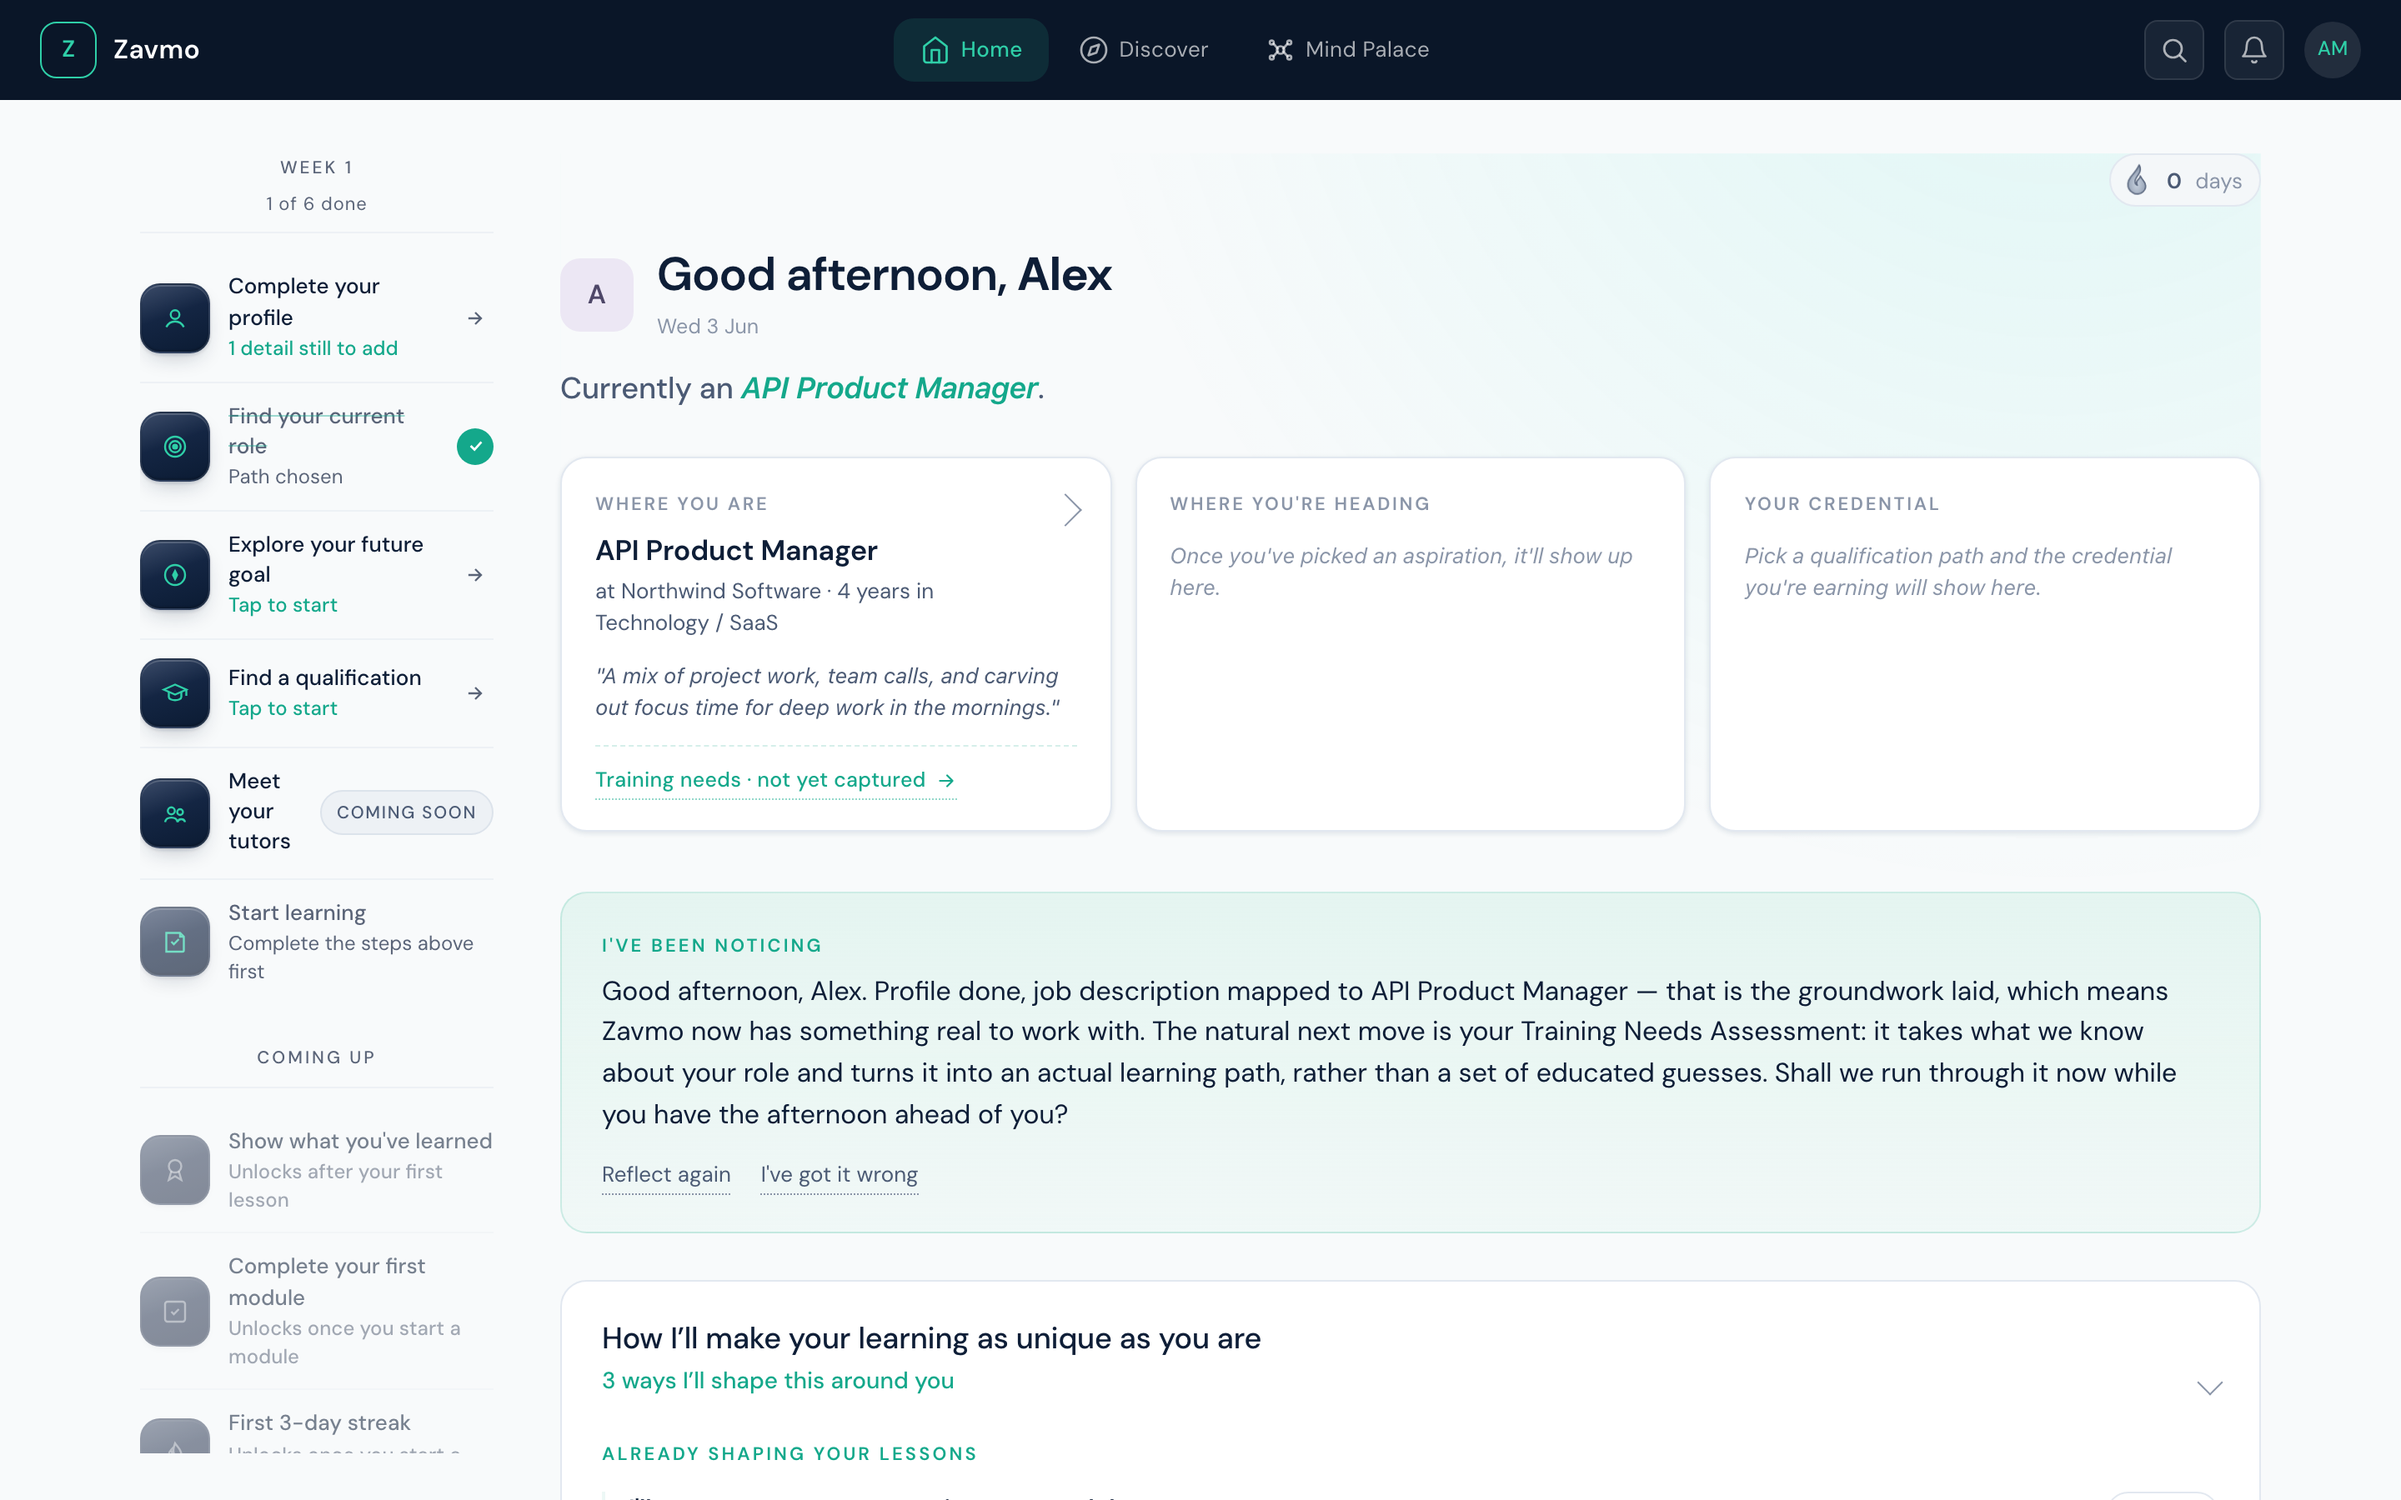
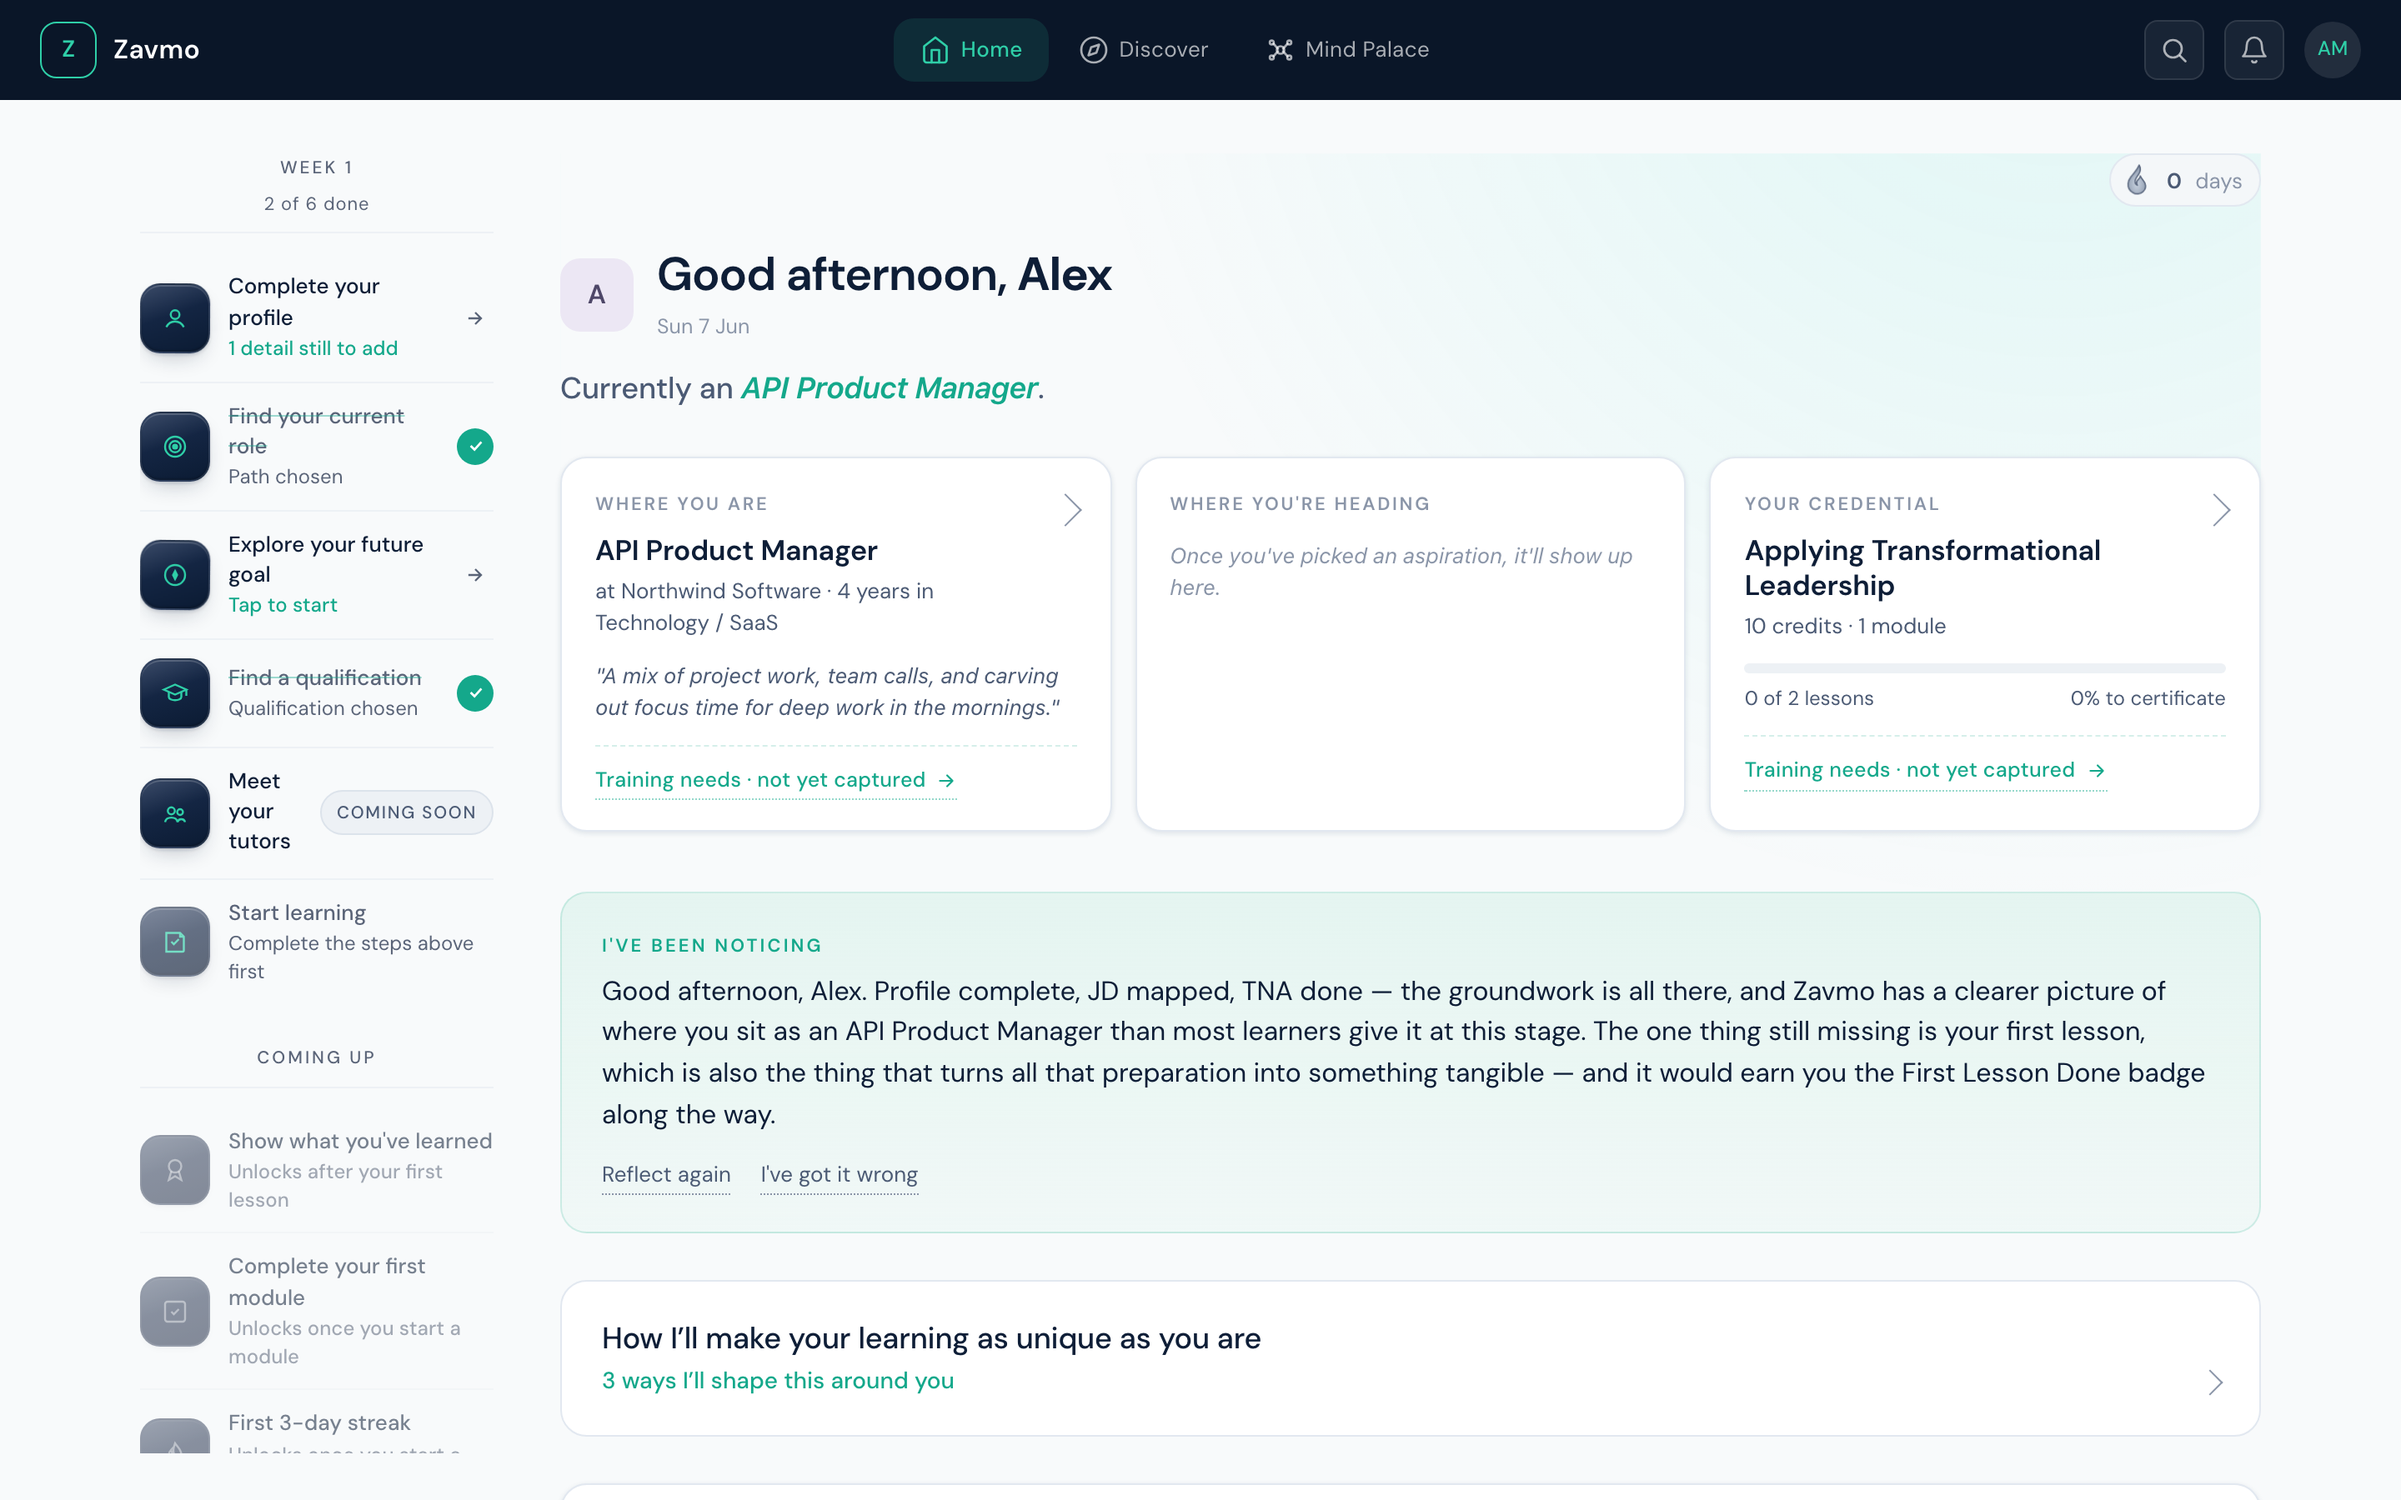
learner-journey: capture new interactive UI (home insights, live scenario card, national-standard confidence check)
- Refresh Home (12) with the new 'I've been noticing' personalised insight + Reflect/I've got it wrong
- New slide (36): 'Pick up where you left off' continuity + active path + xAPI statements + anonymised cohort signals
- Refresh Pick-your-path (15) with NQual Level 5 framing
- Refresh confidence check (16): live national-standard scenario + interactive A/B response
- New slide (37): in-lesson interactive scenario card ('48 hours to fix a critical API')

diff --git a/learner-journey/index.html b/learner-journey/index.html
@@ -149,14 +149,15 @@ const S=[
   { img:'11.png', eyebrow:'The payoff', title:'Your portrait', caption:'Zavmo reflects back everything it heard — “here’s who I see” — turning a profile into a recognisable person before suggesting a single thing.' },
 
   { section:true, num:'PART 3', title:'Your dashboard', sub:'Everything personal, in one place.' },
-  { img:'12.png', eyebrow:'In the app', title:'Home', caption:'A personalised dashboard: where you are, where you’re heading, and a clear next step — with Zavmo narrating what it has noticed.' },
+  { img:'12.png', eyebrow:'In the app · Home', title:'Zavmo notices, in your words', caption:'The home isn’t a list of courses — it’s Zavmo talking to you. “I’ve been noticing…” narrates exactly where you stand (“profile complete, JD mapped, TNA done — the groundwork is all there”) and the one thing that would move you forward. You can push back live — “Reflect again” or “I’ve got it wrong” — and it re-reads you. A dashboard that actually knows you.' },
+  { img:'36.png', eyebrow:'In the app · Continuity', title:'It picks up exactly where you left off', caption:'“Pick up where you left off” drops you back into the conversation mid-sentence — no re-finding your place. Your active path shows the nationally-recognised qualification, the units inside it, and an honest “on track, finish by late November.” Every interaction is logged as an xAPI statement (17 already) — and cohort signals only appear once enough peers join, fully anonymised. Personal, accountable, private.' },
 
   { section:true, num:'PART 4', title:'Discover & assess', sub:'Choose a real qualification, then prove where you actually stand.' },
   { img:'27.png', eyebrow:'Discover · Your job description', title:'See your whole role, in full', caption:'Here’s the learner’s own role — API Product Manager — as a complete job description: the real day-to-day, every responsibility broken down by experience band (Mid vs. Experienced), and exactly who they work with. The learner sees precisely what their role demands — and what the learning is building them toward. No guesswork.' },
   { img:'14.png', eyebrow:'Discover · Qualification', title:'Benchmarked to national standards', caption:'Every qualification is benchmarked against recognised national standards — so a learner knows what they’re studying is the real thing, the highest quality, with genuine credits, units and an awarding body behind it. Not invented content.' },
   { img:'35.png', eyebrow:'Discover · Inside the qualification', title:'See exactly what you’ll learn', caption:'Open any unit and the full standard is laid bare — the National Occupational Standard it maps to, its level, every Performance Criterion (what you must be able to do) and every Knowledge Requirement (what you must understand). The real substance of the learning, in the open — a huge benefit for a learner deciding what to commit to.' },
   { img:'15.png', eyebrow:'Discover · Your path', title:'Pick your path', caption:'Current role, a future goal, and a nationally-recognised qualification come together — the destination is set, and Zavmo can now design the learning backwards from it.' },
-  { img:'16.png', eyebrow:'Discover · Confidence check', title:'An assessment that thinks', caption:'Zavmo writes a bespoke, role-specific Level 5 scenario on the spot — a real dilemma with no clean answer — to find where you genuinely stand.' },
+  { img:'16.png', eyebrow:'Discover · Confidence check', title:'An assessment that thinks', caption:'Zavmo writes a bespoke, role-specific scenario on the spot, benchmarked to a national standard (Level 5) — a genuine dilemma with no clean answer (here, a breaking OAuth migration across 340 partners). You choose how you’d actually respond and rate your own confidence. From that, Zavmo finds where you truly stand — not where a multiple-choice quiz guesses you are.' },
   { img:'17.png', eyebrow:'Assessment', title:'Your skills assessment', caption:'The chosen qualification breaks into real, nationally-benchmarked units. Zavmo assesses each one — the Choose path → Assessment → Schedule → Learn → Certify journey.' },
   { img:'18.png', eyebrow:'Assessment · Pedagogy', title:'Built on Bloom’s taxonomy', caption:'The backbone of how Zavmo teaches. Every skill is mapped across the six cognitive levels — Remember, Understand, Apply, Analyse, Evaluate, Create — so progress is measured by depth of understanding, not boxes ticked. This is mastery learning: the one-to-one, two-sigma method, delivered at scale.' },
   { img:'20.png', eyebrow:'Assessment', title:'Your study plan', caption:'From the results, Zavmo builds a priority-ordered study plan — units, hours, and a week-by-week timeline with milestones.' },
@@ -164,6 +165,7 @@ const S=[
   { section:true, num:'PART 5', title:'Lesson delivery', sub:'Zavmo teaches in your world — pitched at your Bloom’s level, paced to how you learn, and you can talk to it.' },
   { img:'21.png', eyebrow:'Deliver · The Coach', title:'Teaching, in context', caption:'“The Coach” teaches conversationally, using a worked example drawn from Alex’s own world — a burnt-out engineering team shipping API fixes — then asks a real question.' },
   { img:'33.png', eyebrow:'Deliver · Interactive & gamified', title:'You steer it — and it scores you', caption:'Every message is interactive: answer in your own words, or tap “Got it”, “Slower please”, “Show me an example” or “Read it to me”. And it’s gamified — Zavmo grades your thinking live at Bloom level 4 (Analysing) and tracks you against the learning outcomes as you go.' },
+  { img:'37.png', eyebrow:'Deliver · Interactive cards', title:'It drops you into a live scenario', caption:'Mid-lesson, Zavmo turns teaching into doing: it hands you a real scenario — your team has 48 hours to fix a critical API — and an interactive card asking what you’d say first to keep them owning the problem. You don’t read about leadership; you practise it, in the moment, and Zavmo responds to your actual answer.' },
   { img:'22.png', eyebrow:'Deliver · Adaptive', title:'It adapts to your answer', caption:'When the learner answers, Zavmo recognises the competence shown and stress-tests it with a sharper, harder follow-up — pitched exactly at where they are, not a fixed script.' },
   { img:'28.png', eyebrow:'Deliver · Voice', title:'Talk to Zavmo, hands-free', caption:'Learners don’t have to type. Turn on voice and Zavmo reads every reply aloud and transcribes what you say (via ElevenLabs) — streamed in the moment, never stored, consent you can withdraw any time.' },
   { img:'23.png', eyebrow:'Deliver · Gamified progress', title:'Progress you can see', caption:'A live module-completion bar, the learning outcomes being met, and space for the learner’s own notes — momentum made visible.' },
